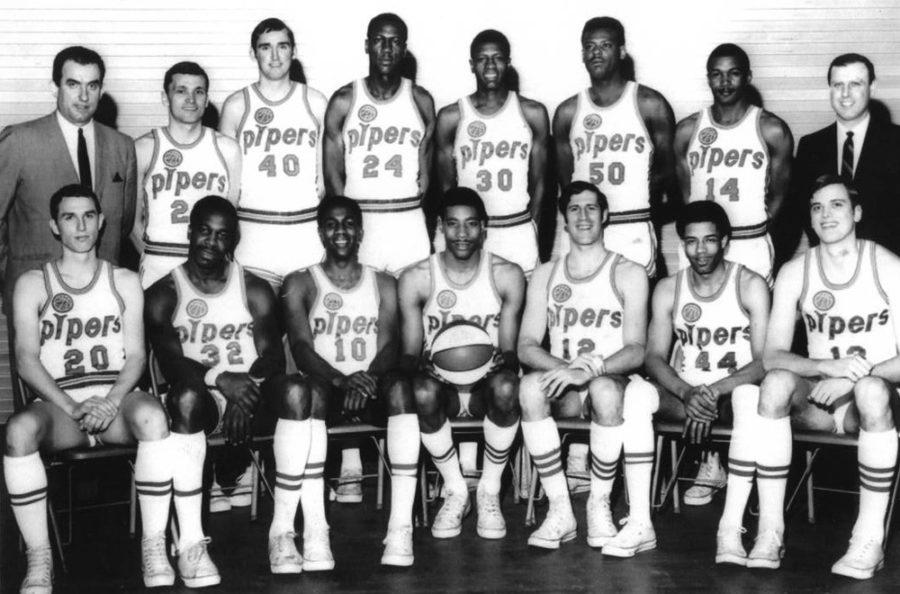
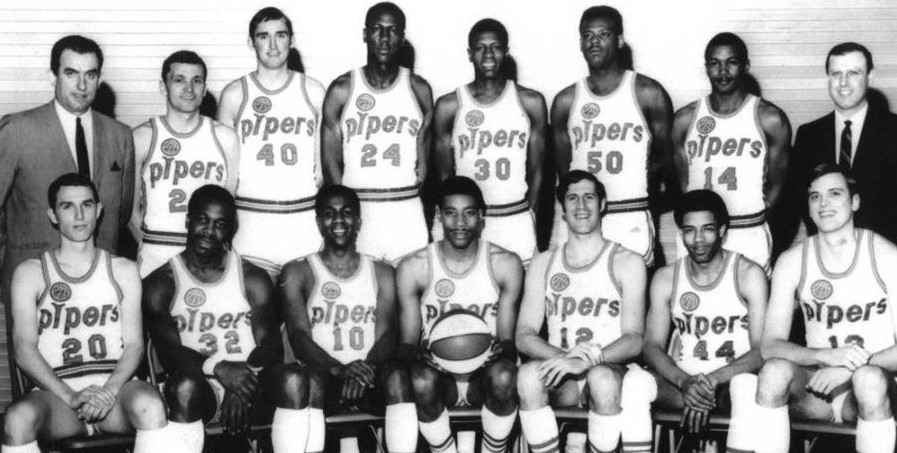
fixed image bug

diff --git a/pages/eb_1970.html b/pages/eb_1970.html
@@ -188,10 +188,10 @@
     <div class="grid">
         <div>
             <a href="../images/pipers.jpg" target="_blank">
-                <img src="../images/nets.jpg" />
+                <img src="../images/pipers.jpg" />
             </a>
             <a href="../images/squires.jpg" target="_blank">
-                <img src="../images/nets.jpg" />
+                <img src="../images/squires.jpg" />
             </a>
             <div>
                 <h3>ABA Teams</h3>
